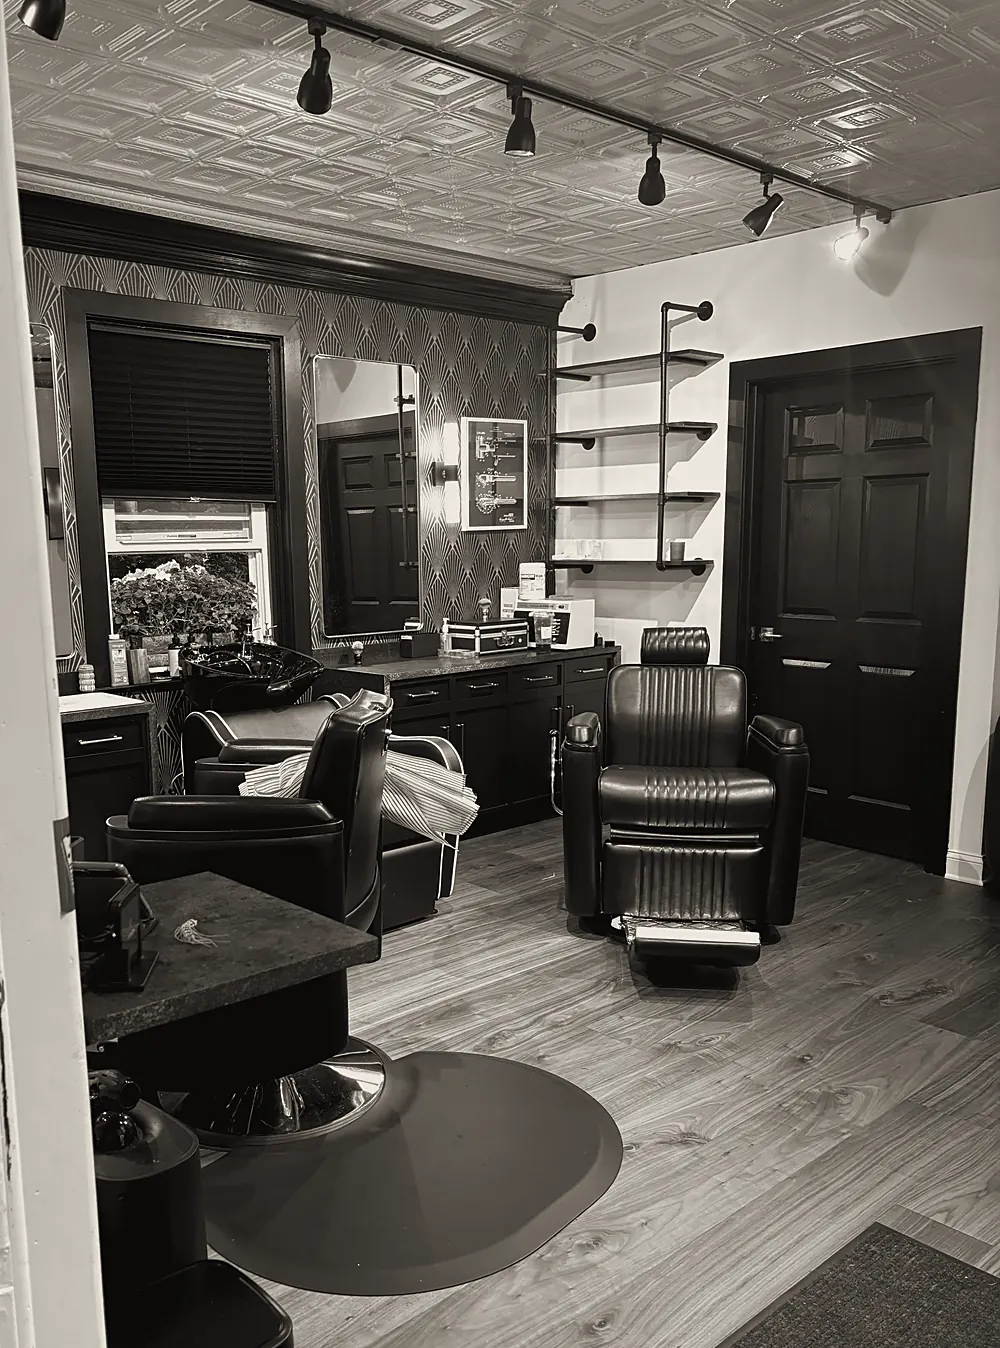
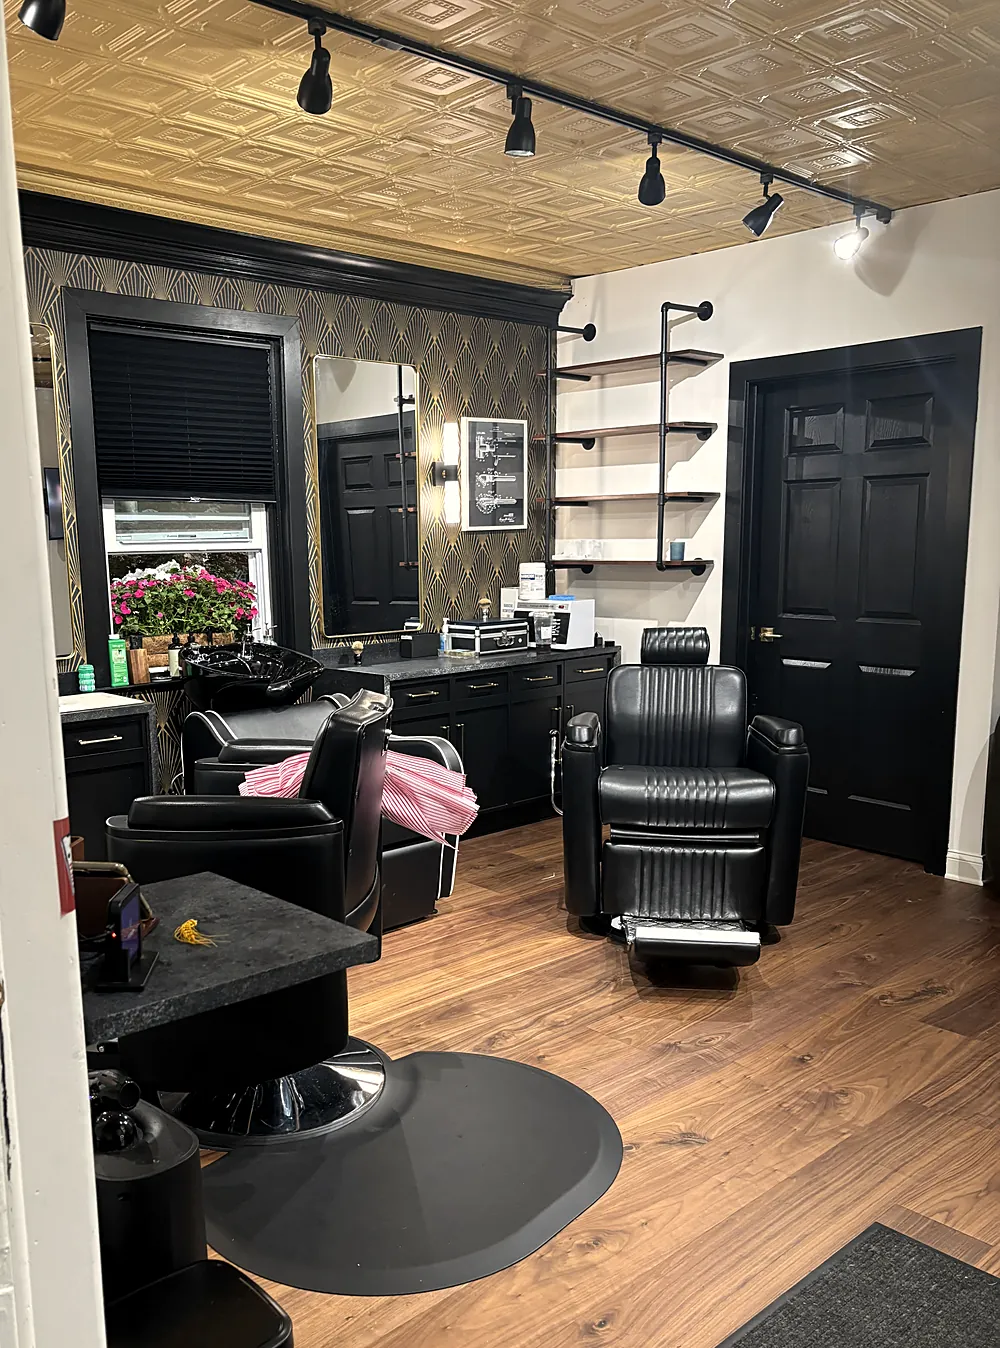
Back to colour; John's hands; the shop through its window
The monochrome comes off and the colour grade goes back on, still cut
twice per photograph and still held still. John's slide is now just his
hands with the comb and shears, the bottom of his portrait. The shopfront
slide is the window itself, with the room showing through the glass,
rather than the transoms above it.

Claude-Session: https://claude.ai/code/session_01LbNnvFfHUj9cRbAtqgWB8F

diff --git a/components/sections.tsx b/components/sections.tsx
@@ -20,17 +20,17 @@ export function Hero() {
     <section id="top" className="relative overflow-hidden border-b border-hair">
       {/* The shop, one photograph at a time, edge to edge: the room, John,
           the painted door, the shopfront, the tonics in the window. Each is
-          cut once for a phone and once for a wide screen, and toned to the
-          site's own ink and bone so five phone photographs read as one set.
+          cut once for a phone and once for a wide screen, graded a touch warm
+          so five phone photographs read as one set.
           Grain and a soft vignette over them. No words on it. */}
       <div className="relative h-[62vh] min-h-[22rem] max-h-[46rem]">
         <div className="absolute inset-0" aria-hidden="true">
           <HeroSlides
             slides={[
               { alt: "The room", tall: { src: "/media/room-tall.webp", width: 1000, height: 1348 }, wide: { src: "/media/room-wide.webp", width: 1800, height: 993 } },
-              { alt: "John, comb and shears in hand", tall: { src: "/media/john-tall.webp", width: 1000, height: 1333 }, wide: { src: "/media/john-wide.webp", width: 1800, height: 1033 } },
+              { alt: "His hands, comb and shears", tall: { src: "/media/john-tall.webp", width: 1000, height: 630 }, wide: { src: "/media/john-wide.webp", width: 1800, height: 657 } },
               { alt: "The menu painted on the door", tall: { src: "/media/door-tall.webp", width: 1000, height: 1221 }, wide: { src: "/media/door-wide.webp", width: 1800, height: 951 } },
-              { alt: "The shopfront from the sidewalk", tall: { src: "/media/front-tall.webp", width: 1000, height: 1281 }, wide: { src: "/media/front-wide.webp", width: 1800, height: 960 } },
+              { alt: "The shopfront from the sidewalk", tall: { src: "/media/front-tall.webp", width: 1000, height: 794 }, wide: { src: "/media/front-wide.webp", width: 1800, height: 1200 } },
               { alt: "Tonics in the front window", tall: { src: "/media/tonics-tall.webp", width: 1000, height: 1240 }, wide: { src: "/media/tonics-wide.webp", width: 1800, height: 1258 } },
             ]}
           />

diff --git a/app/globals.css b/app/globals.css
@@ -223,10 +223,9 @@
   }
 
   /* ── The hero's photographs ────────────────────────────────────────────
-     Film grain and a soft vignette over phone photographs, toned to the
-     site's ink and bone in tools: the grain gives them a texture of their
-     own so softness and compression read as intent, and the vignette
-     settles the edges into the page. */
+     Film grain and a soft vignette over phone photographs: the grain gives
+     them a texture of their own so softness and compression read as
+     intent, and the vignette settles the edges into the page. */
   .grain {
     opacity: 0.14;
     mix-blend-mode: overlay;

diff --git a/README.md b/README.md
@@ -103,8 +103,8 @@ claim about his pricing we cannot support.
 - **One photograph per section, at most.** The tonics, the razor and a hot-towel shot once
   flanked the door menu and the booking widget; they layered up and came out (git history has
   them). Hero: five photographs in rotation, edge to edge (`components/hero-slides.tsx`, six seconds
-  each, each cut once for a phone and once for a wide screen and toned to the site's ink and bone,
-  with film grain and a vignette over them; no rotation under `prefers-reduced-motion`), no words
+  each, each cut once for a phone and once for a wide screen and graded a touch warm, with film grain
+  and a vignette over them; no rotation under `prefers-reduced-motion`), no words
   on it; a short Welcome section sits under it. The Shop: John.
 - **No em dashes in anything the page prints.** Commas, colons and full stops instead.
 - **Photographs are bled, not framed.** Nothing sits in a bordered box with a caption. The pole
@@ -117,9 +117,9 @@ Everything in `public/media/` is from the shop.
 | File | What it is |
 |---|---|
 | `room-wide.webp`, `room-tall.webp` | The room from the doorway, cut for a wide screen and for a phone — first in the hero |
-| `john-wide.webp`, `john-tall.webp` | John, comb and shears in hand — second in the hero |
+| `john-wide.webp`, `john-tall.webp` | His hands, comb and shears — second in the hero |
 | `door-wide.webp`, `door-tall.webp` | The painted menu on the back door in its white wall — third in the hero |
-| `front-wide.webp`, `front-tall.webp` | The shopfront from the sidewalk: transoms, sign and pole in the glass — fourth in the hero |
+| `front-wide.webp`, `front-tall.webp` | The shop through the front window, from the sidewalk — fourth in the hero |
 | `tonics-wide.webp`, `tonics-tall.webp` | The tonics on the front sill, flowers behind — fifth in the hero |
 | `pole.webp` | The pole out front, turning — **animated WebP, 226KB**. Was the hero until the room was photographed; kept, not placed |
 | `pole-still.webp` | One frame of it, for `prefers-reduced-motion` — kept with it |
